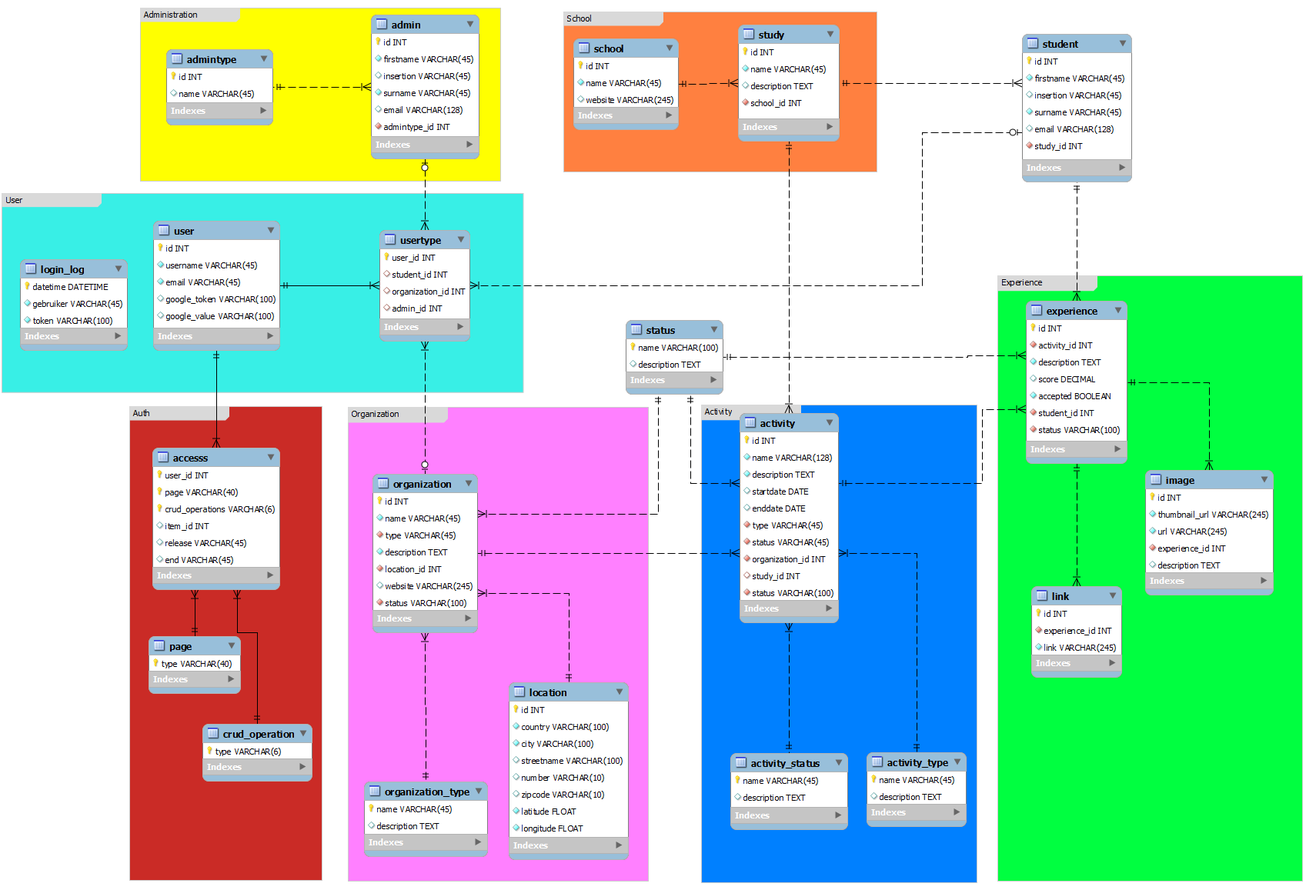
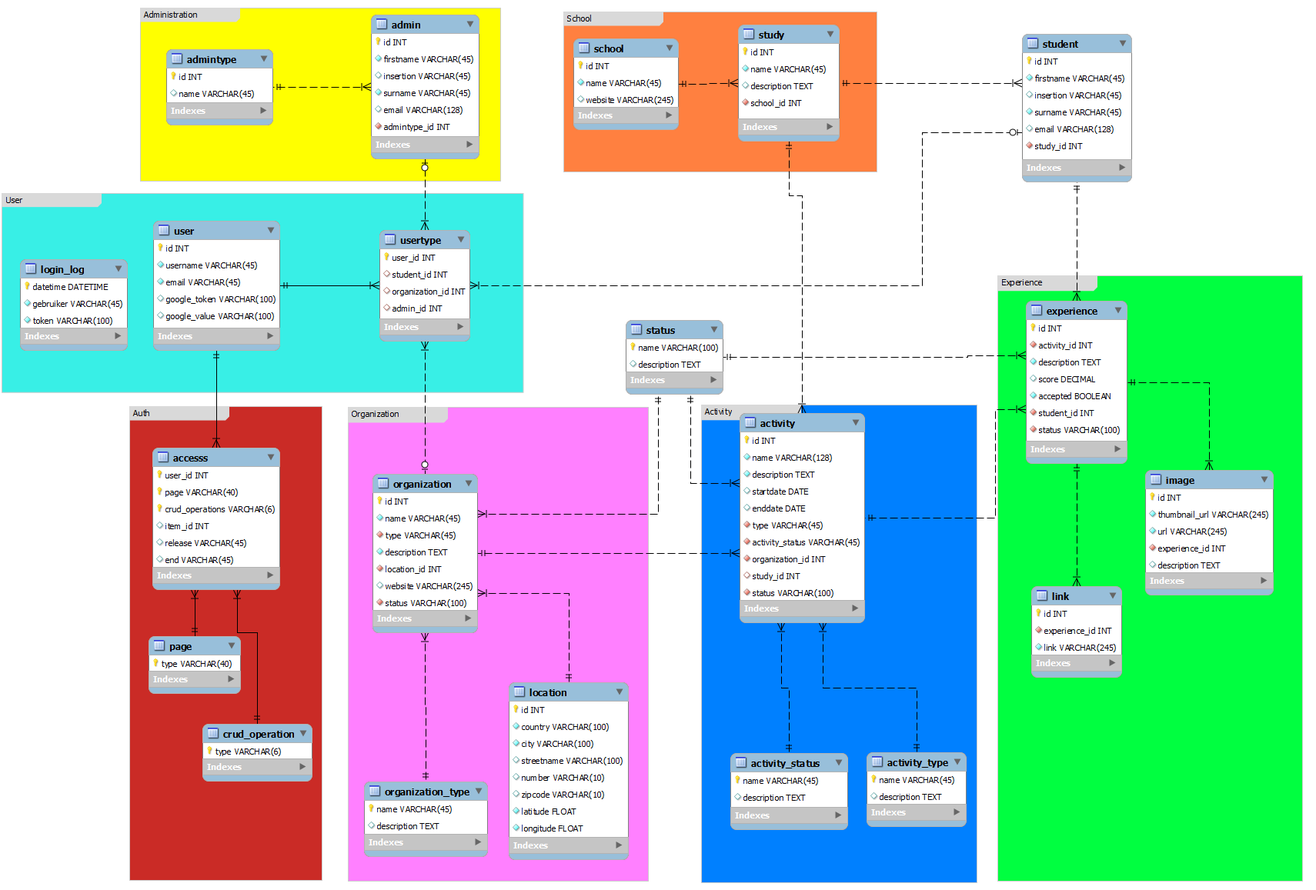
DB update

Changed region(s): [[0.5889, 0.4667, 0.6819, 0.7156]]

diff --git a/Larakaart/app/controllers/DatabaseController.php b/Larakaart/app/controllers/DatabaseController.php
@@ -4,6 +4,23 @@ class DatabaseController extends BaseController {
 
 	public function vullen()
 	{	
+		# Het toevoegen van een status
+		$needsapproval = new Status;
+		$needsapproval->name = "Needsapproval";
+		$needsapproval->save();	
+		
+		$removed = new Status;
+		$removed->name = "Removed";
+		$removed->save();	
+		
+		$approved = new Status;
+		$approved->name = "Approved";
+		$approved->save();	
+		
+		$declined = new Status;
+		$declined->name = "Declined";
+		$declined->save();	
+/*-----------------------------------------------------------------*/		
 		# Het toevoegen van organization types
 		$school = new Organization_type;
 		$school->name = "School";
@@ -110,12 +127,16 @@ class DatabaseController extends BaseController {
 		$kraft->name = "Kraft Foods";
 		$kraft->type = $company->name;
 		$kraft->location_id = $herentals->id;
+		$kraft->status=  $approved->name;
+		$kraft->description = "Lorem ipsum dolor sit amet, consectetuer adipiscing elit. Aenean commodo ligula eget dolor. Aenean massa. Cum sociis natoque penatibus et magnis dis parturient montes, nascetur ridiculus mus. Donec quam felis, ultricies nec, pellentesque eu, pretium quis, sem. Nulla consequat massa quis enim. Donec pede justo, fringilla vel, aliquet nec, vulputate eget, arcu. In enim justo, rhoncus ut, imperdiet a, venenatis vitae, justo. Nullam dictum felis eu pede mollis pretium. Integer tincidunt. Cras dapibus. Vivamus elementum semper nisi. Aenean vulputate eleifend tellus. Aenean leo ligula, porttitor eu, consequat vitae, eleifend ac, enim. Aliquam lorem ante, dapibus in, viverra quis, feugiat a, tellus. Phasellus viverra nulla ut metus varius laoreet. Quisque rutrum. Aenean imperdiet. Etiam ultricies nisi vel augue. Curabitur ullamcorper ultricies nisi. Nam eget dui.";
 		$kraft->save();
 		
 		$weltec = new Organization;
 		$weltec->name = "Weltec Centre for Smart Product";
 		$weltec->type = $company->name;
 		$weltec->location_id = $wellington->id;
+		$weltec->status=  $approved->name;
+		$weltec->description = "Lorem ipsum dolor sit amet, consectetuer adipiscing elit. Aenean commodo ligula eget dolor. Aenean massa. Cum sociis natoque penatibus et magnis dis parturient montes, nascetur ridiculus mus. Donec quam felis, ultricies nec, pellentesque eu, pretium quis, sem. Nulla consequat massa quis enim. Donec pede justo, fringilla vel, aliquet nec, vulputate eget, arcu. In enim justo, rhoncus ut, imperdiet a, venenatis vitae, justo. Nullam dictum felis eu pede mollis pretium. Integer tincidunt. Cras dapibus. Vivamus elementum semper nisi. Aenean vulputate eleifend tellus. Aenean leo ligula, porttitor eu, consequat vitae, eleifend ac, enim. Aliquam lorem ante, dapibus in, viverra quis, feugiat a, tellus. Phasellus viverra nulla ut metus varius laoreet. Quisque rutrum. Aenean imperdiet. Etiam ultricies nisi vel augue. Curabitur ullamcorper ultricies nisi. Nam eget dui.";
 		$weltec->save();
 		
 		# Het toevoegen van de organisaties: EPS
@@ -123,12 +144,16 @@ class DatabaseController extends BaseController {
 		$copenhagenUni->name = "Copenhagen University of Engineering";
 		$copenhagenUni->type = $school->name;
 		$copenhagenUni->location_id = $copenhagen->id;
+		$copenhagenUni->status=  $approved->name;
+		$copenhagenUni->description = "Lorem ipsum dolor sit amet, consectetuer adipiscing elit. Aenean commodo ligula eget dolor. Aenean massa. Cum sociis natoque penatibus et magnis dis parturient montes, nascetur ridiculus mus. Donec quam felis, ultricies nec, pellentesque eu, pretium quis, sem. Nulla consequat massa quis enim. Donec pede justo, fringilla vel, aliquet nec, vulputate eget, arcu. In enim justo, rhoncus ut, imperdiet a, venenatis vitae, justo. Nullam dictum felis eu pede mollis pretium. Integer tincidunt. Cras dapibus. Vivamus elementum semper nisi. Aenean vulputate eleifend tellus. Aenean leo ligula, porttitor eu, consequat vitae, eleifend ac, enim. Aliquam lorem ante, dapibus in, viverra quis, feugiat a, tellus. Phasellus viverra nulla ut metus varius laoreet. Quisque rutrum. Aenean imperdiet. Etiam ultricies nisi vel augue. Curabitur ullamcorper ultricies nisi. Nam eget dui.";
 		$copenhagenUni->save();
 		
 		$novia = new Organization;
 		$novia->name = "Novia University of Applied Sciences";
 		$novia->type = $school->name;
 		$novia->location_id = $vaasa->id;
+		$novia->status=  $approved->name;
+		$novia->description = "Lorem ipsum dolor sit amet, consectetuer adipiscing elit. Aenean commodo ligula eget dolor. Aenean massa. Cum sociis natoque penatibus et magnis dis parturient montes, nascetur ridiculus mus. Donec quam felis, ultricies nec, pellentesque eu, pretium quis, sem. Nulla consequat massa quis enim. Donec pede justo, fringilla vel, aliquet nec, vulputate eget, arcu. In enim justo, rhoncus ut, imperdiet a, venenatis vitae, justo. Nullam dictum felis eu pede mollis pretium. Integer tincidunt. Cras dapibus. Vivamus elementum semper nisi. Aenean vulputate eleifend tellus. Aenean leo ligula, porttitor eu, consequat vitae, eleifend ac, enim. Aliquam lorem ante, dapibus in, viverra quis, feugiat a, tellus. Phasellus viverra nulla ut metus varius laoreet. Quisque rutrum. Aenean imperdiet. Etiam ultricies nisi vel augue. Curabitur ullamcorper ultricies nisi. Nam eget dui.";
 		$novia->save();
 		
 		# Het toevoegen van de organisaties: Minor
@@ -136,12 +161,16 @@ class DatabaseController extends BaseController {
 		$politecnica->name = "Universidad Politecnica de Valencia";
 		$politecnica->type = $school->name;
 		$politecnica->location_id = $valencia->id;
+		$politecnica->status=  $approved->name;
+		$politecnica->description = "Lorem ipsum dolor sit amet, consectetuer adipiscing elit. Aenean commodo ligula eget dolor. Aenean massa. Cum sociis natoque penatibus et magnis dis parturient montes, nascetur ridiculus mus. Donec quam felis, ultricies nec, pellentesque eu, pretium quis, sem. Nulla consequat massa quis enim. Donec pede justo, fringilla vel, aliquet nec, vulputate eget, arcu. In enim justo, rhoncus ut, imperdiet a, venenatis vitae, justo. Nullam dictum felis eu pede mollis pretium. Integer tincidunt. Cras dapibus. Vivamus elementum semper nisi. Aenean vulputate eleifend tellus. Aenean leo ligula, porttitor eu, consequat vitae, eleifend ac, enim. Aliquam lorem ante, dapibus in, viverra quis, feugiat a, tellus. Phasellus viverra nulla ut metus varius laoreet. Quisque rutrum. Aenean imperdiet. Etiam ultricies nisi vel augue. Curabitur ullamcorper ultricies nisi. Nam eget dui.";
 		$politecnica->save();
 		
 		$buskerud = new Organization;
 		$buskerud->name = "Noorwegen, Buskerud University";
 		$buskerud->type = $school->name;
 		$buskerud->location_id = $kongsberg->id;
+		$buskerud->status=  $approved->name;
+		$buskerud->description = "Lorem ipsum dolor sit amet, consectetuer adipiscing elit. Aenean commodo ligula eget dolor. Aenean massa. Cum sociis natoque penatibus et magnis dis parturient montes, nascetur ridiculus mus. Donec quam felis, ultricies nec, pellentesque eu, pretium quis, sem. Nulla consequat massa quis enim. Donec pede justo, fringilla vel, aliquet nec, vulputate eget, arcu. In enim justo, rhoncus ut, imperdiet a, venenatis vitae, justo. Nullam dictum felis eu pede mollis pretium. Integer tincidunt. Cras dapibus. Vivamus elementum semper nisi. Aenean vulputate eleifend tellus. Aenean leo ligula, porttitor eu, consequat vitae, eleifend ac, enim. Aliquam lorem ante, dapibus in, viverra quis, feugiat a, tellus. Phasellus viverra nulla ut metus varius laoreet. Quisque rutrum. Aenean imperdiet. Etiam ultricies nisi vel augue. Curabitur ullamcorper ultricies nisi. Nam eget dui.";
 		$buskerud->save();
 		
 		# Het toevoegen van de organisaties: Stage
@@ -149,12 +178,16 @@ class DatabaseController extends BaseController {
 		$robotics->name = "Australian Centre for Field Robotics";
 		$robotics->type = $company->name;
 		$robotics->location_id = $sydney->id;
+		$robotics->status=  $approved->name;
+		$robotics->description = "Lorem ipsum dolor sit amet, consectetuer adipiscing elit. Aenean commodo ligula eget dolor. Aenean massa. Cum sociis natoque penatibus et magnis dis parturient montes, nascetur ridiculus mus. Donec quam felis, ultricies nec, pellentesque eu, pretium quis, sem. Nulla consequat massa quis enim. Donec pede justo, fringilla vel, aliquet nec, vulputate eget, arcu. In enim justo, rhoncus ut, imperdiet a, venenatis vitae, justo. Nullam dictum felis eu pede mollis pretium. Integer tincidunt. Cras dapibus. Vivamus elementum semper nisi. Aenean vulputate eleifend tellus. Aenean leo ligula, porttitor eu, consequat vitae, eleifend ac, enim. Aliquam lorem ante, dapibus in, viverra quis, feugiat a, tellus. Phasellus viverra nulla ut metus varius laoreet. Quisque rutrum. Aenean imperdiet. Etiam ultricies nisi vel augue. Curabitur ullamcorper ultricies nisi. Nam eget dui.";
 		$robotics->save();
 		
 		$suralco = new Organization;
 		$suralco->name = "Suralco LLC";
 		$suralco->type = $company->name;
 		$suralco->location_id = $paramaribo->id;
+		$suralco->status=  $approved->name;
+		$suralco->description = "Lorem ipsum dolor sit amet, consectetuer adipiscing elit. Aenean commodo ligula eget dolor. Aenean massa. Cum sociis natoque penatibus et magnis dis parturient montes, nascetur ridiculus mus. Donec quam felis, ultricies nec, pellentesque eu, pretium quis, sem. Nulla consequat massa quis enim. Donec pede justo, fringilla vel, aliquet nec, vulputate eget, arcu. In enim justo, rhoncus ut, imperdiet a, venenatis vitae, justo. Nullam dictum felis eu pede mollis pretium. Integer tincidunt. Cras dapibus. Vivamus elementum semper nisi. Aenean vulputate eleifend tellus. Aenean leo ligula, porttitor eu, consequat vitae, eleifend ac, enim. Aliquam lorem ante, dapibus in, viverra quis, feugiat a, tellus. Phasellus viverra nulla ut metus varius laoreet. Quisque rutrum. Aenean imperdiet. Etiam ultricies nisi vel augue. Curabitur ullamcorper ultricies nisi. Nam eget dui.";
 		$suralco->save();
 /*-----------------------------------------------------------------*/		
 		# Het toevoegen van opleidingen
@@ -291,22 +324,24 @@ class DatabaseController extends BaseController {
 		$Activity1->name = "Final thesis Kraft Foods";
 		$Activity1->description = "Lorem ipsum dolor sit amet, consectetuer adipiscing elit. Aenean commodo ligula eget dolor. Aenean massa. Cum sociis natoque penatibus et magnis dis parturient montes, nascetur ridiculus mus. Donec quam felis, ultricies nec, pellentesque eu, pretium quis, sem. Nulla consequat massa quis enim. Donec pede justo, fringilla vel, aliquet nec, vulputate eget, arcu. In enim justo, rhoncus ut, imperdiet a, venenatis vitae, justo. Nullam dictum felis eu pede mollis pretium. Integer tincidunt. Cras dapibus. Vivamus elementum semper nisi. Aenean vulputate eleifend tellus. Aenean leo ligula, porttitor eu, consequat vitae, eleifend ac, enim. Aliquam lorem ante, dapibus in, viverra quis, feugiat a, tellus. Phasellus viverra nulla ut metus varius laoreet. Quisque rutrum. Aenean imperdiet. Etiam ultricies nisi vel augue. Curabitur ullamcorper ultricies nisi. Nam eget dui.";
 		$Activity1->type = $finalThesis->name;
-		$Activity1->status = $closed->name;
+		$Activity1->activity_status = $closed->name;
 		$Activity1->organization_id = $kraft->id;
 		$Activity1->startdate = '2012-01-01';
 		$Activity1->enddate = '2013-01-01';
 		$Activity1->study_id = $ie->id;
+		$Activity1->status=  $approved->name;
 		$Activity1->save();
 		
 		$Activity2 = new Activity;
 		$Activity2->name = "Final thesis Weltec Centre for Smart Product";
 		$Activity2->description = "Lorem ipsum dolor sit amet, consectetuer adipiscing elit. Aenean commodo ligula eget dolor. Aenean massa. Cum sociis natoque penatibus et magnis dis parturient montes, nascetur ridiculus mus. Donec quam felis, ultricies nec, pellentesque eu, pretium quis, sem. Nulla consequat massa quis enim. Donec pede justo, fringilla vel, aliquet nec, vulputate eget, arcu. In enim justo, rhoncus ut, imperdiet a, venenatis vitae, justo. Nullam dictum felis eu pede mollis pretium. Integer tincidunt. Cras dapibus. Vivamus elementum semper nisi. Aenean vulputate eleifend tellus. Aenean leo ligula, porttitor eu, consequat vitae, eleifend ac, enim. Aliquam lorem ante, dapibus in, viverra quis, feugiat a, tellus. Phasellus viverra nulla ut metus varius laoreet. Quisque rutrum. Aenean imperdiet. Etiam ultricies nisi vel augue. Curabitur ullamcorper ultricies nisi. Nam eget dui.";
 		$Activity2->type = $finalThesis->name;
-		$Activity2->status = $closed->name;
+		$Activity2->activity_status = $closed->name;
 		$Activity2->organization_id = $weltec->id;
 		$Activity2->startdate = '2012-01-01';
 		$Activity2->enddate = '2013-01-01';
 		$Activity2->study_id = $me->id;
+		$Activity2->status=  $approved->name;
 		$Activity2->save();
 
 		# Het toevoegen van Activity: EPS
@@ -314,22 +349,24 @@ class DatabaseController extends BaseController {
 		$Activity3->name = "EPS Copenhagen University of Engineering";
 		$Activity3->description = "Lorem ipsum dolor sit amet, consectetuer adipiscing elit. Aenean commodo ligula eget dolor. Aenean massa. Cum sociis natoque penatibus et magnis dis parturient montes, nascetur ridiculus mus. Donec quam felis, ultricies nec, pellentesque eu, pretium quis, sem. Nulla consequat massa quis enim. Donec pede justo, fringilla vel, aliquet nec, vulputate eget, arcu. In enim justo, rhoncus ut, imperdiet a, venenatis vitae, justo. Nullam dictum felis eu pede mollis pretium. Integer tincidunt. Cras dapibus. Vivamus elementum semper nisi. Aenean vulputate eleifend tellus. Aenean leo ligula, porttitor eu, consequat vitae, eleifend ac, enim. Aliquam lorem ante, dapibus in, viverra quis, feugiat a, tellus. Phasellus viverra nulla ut metus varius laoreet. Quisque rutrum. Aenean imperdiet. Etiam ultricies nisi vel augue. Curabitur ullamcorper ultricies nisi. Nam eget dui.";
 		$Activity3->type = $eps->name;
-		$Activity3->status = $closed->name;
+		$Activity3->activity_status = $closed->name;
 		$Activity3->organization_id = $copenhagenUni->id;
 		$Activity3->startdate = '2012-01-01';
 		$Activity3->enddate = '2013-01-01';
 		$Activity3->study_id = $ce->id;
+		$Activity3->status=  $approved->name;
 		$Activity3->save();
 		
 		$Activity4 = new Activity;
 		$Activity4->name = "EPS Novia University of Applied Sciences";
 		$Activity4->description = "Lorem ipsum dolor sit amet, consectetuer adipiscing elit. Aenean commodo ligula eget dolor. Aenean massa. Cum sociis natoque penatibus et magnis dis parturient montes, nascetur ridiculus mus. Donec quam felis, ultricies nec, pellentesque eu, pretium quis, sem. Nulla consequat massa quis enim. Donec pede justo, fringilla vel, aliquet nec, vulputate eget, arcu. In enim justo, rhoncus ut, imperdiet a, venenatis vitae, justo. Nullam dictum felis eu pede mollis pretium. Integer tincidunt. Cras dapibus. Vivamus elementum semper nisi. Aenean vulputate eleifend tellus. Aenean leo ligula, porttitor eu, consequat vitae, eleifend ac, enim. Aliquam lorem ante, dapibus in, viverra quis, feugiat a, tellus. Phasellus viverra nulla ut metus varius laoreet. Quisque rutrum. Aenean imperdiet. Etiam ultricies nisi vel augue. Curabitur ullamcorper ultricies nisi. Nam eget dui.";
 		$Activity4->type = $eps->name;
-		$Activity4->status = $closed->name;
+		$Activity4->activity_status = $closed->name;
 		$Activity4->organization_id = $novia->id;
 		$Activity4->startdate = '2012-01-01';
 		$Activity4->enddate = '2013-01-01';
 		$Activity4->study_id = $cs->id;
+		$Activity4->status=  $approved->name;
 		$Activity4->save();
 		
 		# Het toevoegen van Activity: Minor
@@ -337,33 +374,36 @@ class DatabaseController extends BaseController {
 		$Activity5->name = "Minor Universidad Politecnica de Valencia";
 		$Activity5->description = "Lorem ipsum dolor sit amet, consectetuer adipiscing elit. Aenean commodo ligula eget dolor. Aenean massa. Cum sociis natoque penatibus et magnis dis parturient montes, nascetur ridiculus mus. Donec quam felis, ultricies nec, pellentesque eu, pretium quis, sem. Nulla consequat massa quis enim. Donec pede justo, fringilla vel, aliquet nec, vulputate eget, arcu. In enim justo, rhoncus ut, imperdiet a, venenatis vitae, justo. Nullam dictum felis eu pede mollis pretium. Integer tincidunt. Cras dapibus. Vivamus elementum semper nisi. Aenean vulputate eleifend tellus. Aenean leo ligula, porttitor eu, consequat vitae, eleifend ac, enim. Aliquam lorem ante, dapibus in, viverra quis, feugiat a, tellus. Phasellus viverra nulla ut metus varius laoreet. Quisque rutrum. Aenean imperdiet. Etiam ultricies nisi vel augue. Curabitur ullamcorper ultricies nisi. Nam eget dui.";
 		$Activity5->type = $minor->name;
-		$Activity5->status = $closed->name;
+		$Activity5->activity_status = $closed->name;
 		$Activity5->organization_id = $politecnica->id;
 		$Activity5->startdate = '2012-01-01';
 		$Activity5->enddate = '2013-01-01';
 		$Activity5->study_id = $cmd->id;
+		$Activity5->status=  $approved->name;
 		$Activity5->save();
 		
 		$Activity6 = new Activity;
 		$Activity6->name = "Minor Noorwegen, Buskerud University";
 		$Activity6->description = "Lorem ipsum dolor sit amet, consectetuer adipiscing elit. Aenean commodo ligula eget dolor. Aenean massa. Cum sociis natoque penatibus et magnis dis parturient montes, nascetur ridiculus mus. Donec quam felis, ultricies nec, pellentesque eu, pretium quis, sem. Nulla consequat massa quis enim. Donec pede justo, fringilla vel, aliquet nec, vulputate eget, arcu. In enim justo, rhoncus ut, imperdiet a, venenatis vitae, justo. Nullam dictum felis eu pede mollis pretium. Integer tincidunt. Cras dapibus. Vivamus elementum semper nisi. Aenean vulputate eleifend tellus. Aenean leo ligula, porttitor eu, consequat vitae, eleifend ac, enim. Aliquam lorem ante, dapibus in, viverra quis, feugiat a, tellus. Phasellus viverra nulla ut metus varius laoreet. Quisque rutrum. Aenean imperdiet. Etiam ultricies nisi vel augue. Curabitur ullamcorper ultricies nisi. Nam eget dui.";
 		$Activity6->type = $minor->name;
-		$Activity6->status = $closed->name;
+		$Activity6->activity_status = $closed->name;
 		$Activity6->organization_id = $buskerud->id;
 		$Activity6->startdate = '2012-01-01';
 		$Activity6->enddate = '2013-01-01';
 		$Activity6->study_id = $cmd->id;
+		$Activity6->status=  $approved->name;
 		$Activity6->save();
 		
 		$Activity7 = new Activity;
 		$Activity7->name = "Minor Copenhagen University of Engineering";
 		$Activity7->description = "Lorem ipsum dolor sit amet, consectetuer adipiscing elit. Aenean commodo ligula eget dolor. Aenean massa. Cum sociis natoque penatibus et magnis dis parturient montes, nascetur ridiculus mus. Donec quam felis, ultricies nec, pellentesque eu, pretium quis, sem. Nulla consequat massa quis enim. Donec pede justo, fringilla vel, aliquet nec, vulputate eget, arcu. In enim justo, rhoncus ut, imperdiet a, venenatis vitae, justo. Nullam dictum felis eu pede mollis pretium. Integer tincidunt. Cras dapibus. Vivamus elementum semper nisi. Aenean vulputate eleifend tellus. Aenean leo ligula, porttitor eu, consequat vitae, eleifend ac, enim. Aliquam lorem ante, dapibus in, viverra quis, feugiat a, tellus. Phasellus viverra nulla ut metus varius laoreet. Quisque rutrum. Aenean imperdiet. Etiam ultricies nisi vel augue. Curabitur ullamcorper ultricies nisi. Nam eget dui.";
 		$Activity7->type = $minor->name;
-		$Activity7->status = $closed->name;
+		$Activity7->activity_status = $closed->name;
 		$Activity7->organization_id = $copenhagenUni->id;
 		$Activity7->startdate = '2012-01-01';
 		$Activity7->enddate = '2013-01-01';
 		$Activity7->study_id = $cmd->id;
+		$Activity7->status=  $approved->name;
 		$Activity7->save();
 		
 		# Het toevoegen van Activity: Stage
@@ -371,22 +411,24 @@ class DatabaseController extends BaseController {
 		$Activity8->name = "Internship Australian Centre for Field Robotics";
 		$Activity8->description = "Lorem ipsum dolor sit amet, consectetuer adipiscing elit. Aenean commodo ligula eget dolor. Aenean massa. Cum sociis natoque penatibus et magnis dis parturient montes, nascetur ridiculus mus. Donec quam felis, ultricies nec, pellentesque eu, pretium quis, sem. Nulla consequat massa quis enim. Donec pede justo, fringilla vel, aliquet nec, vulputate eget, arcu. In enim justo, rhoncus ut, imperdiet a, venenatis vitae, justo. Nullam dictum felis eu pede mollis pretium. Integer tincidunt. Cras dapibus. Vivamus elementum semper nisi. Aenean vulputate eleifend tellus. Aenean leo ligula, porttitor eu, consequat vitae, eleifend ac, enim. Aliquam lorem ante, dapibus in, viverra quis, feugiat a, tellus. Phasellus viverra nulla ut metus varius laoreet. Quisque rutrum. Aenean imperdiet. Etiam ultricies nisi vel augue. Curabitur ullamcorper ultricies nisi. Nam eget dui.";
 		$Activity8->type = $internship->name;
-		$Activity8->status = $closed->name;
+		$Activity8->activity_status = $closed->name;
 		$Activity8->organization_id = $robotics->id;
 		$Activity8->startdate = '2012-01-01';
 		$Activity8->enddate = '2013-01-01';
 		$Activity8->study_id = $me->id;
+		$Activity8->status=  $approved->name;
 		$Activity8->save();
 		
 		$Activity9 = new Activity;
 		$Activity9->name = "Internship Suralco LLC";
 		$Activity9->description = "Lorem ipsum dolor sit amet, consectetuer adipiscing elit. Aenean commodo ligula eget dolor. Aenean massa. Cum sociis natoque penatibus et magnis dis parturient montes, nascetur ridiculus mus. Donec quam felis, ultricies nec, pellentesque eu, pretium quis, sem. Nulla consequat massa quis enim. Donec pede justo, fringilla vel, aliquet nec, vulputate eget, arcu. In enim justo, rhoncus ut, imperdiet a, venenatis vitae, justo. Nullam dictum felis eu pede mollis pretium. Integer tincidunt. Cras dapibus. Vivamus elementum semper nisi. Aenean vulputate eleifend tellus. Aenean leo ligula, porttitor eu, consequat vitae, eleifend ac, enim. Aliquam lorem ante, dapibus in, viverra quis, feugiat a, tellus. Phasellus viverra nulla ut metus varius laoreet. Quisque rutrum. Aenean imperdiet. Etiam ultricies nisi vel augue. Curabitur ullamcorper ultricies nisi. Nam eget dui.";
 		$Activity9->type = $internship->name;
-		$Activity9->status = $closed->name;
+		$Activity9->activity_status = $closed->name;
 		$Activity9->organization_id = $suralco->id;
 		$Activity9->startdate = '2012-01-01';
 		$Activity9->enddate = '2013-01-01';
 		$Activity9->study_id = $ie->id;
+		$Activity9->status=  $approved->name;
 		$Activity9->save();
 /*-----------------------------------------------------------------*/		
 		# Add experiences for final thesis'
@@ -395,6 +437,7 @@ class DatabaseController extends BaseController {
 		$experience1->description="Lorem ipsum dolor sit amet, consectetur adipiscing elit. Fusce hendrerit sed magna ac luctus. Aliquam nisi metus, vulputate ut ultricies quis, vestibulum interdum sem. Etiam dui ante, tempor quis justo in, pharetra adipiscing tellus. Proin ullamcorper cursus vestibulum. Duis porta ligula ac tempus scelerisque. Morbi interdum fringilla enim nec placerat. Cras quis elit fringilla, pulvinar libero eget, dapibus tortor. Aliquam vitae consequat massa. Quisque euismod id nibh tempor iaculis. Praesent tempus lacus lobortis, dignissim velit eget, dapibus mauris. In sit amet sapien ultrices, commodo dui viverra, adipiscing massa. Etiam eget lacinia ligula. Cras hendrerit rhoncus mauris a vehicula. Aenean tempus purus iaculis porta molestie. ";
 		$experience1->accepted=1;
 		$experience1->student_id=$student1->id;
+		$experience1->status=  $approved->name;
 		$experience1->save();
 		
 		$experience2 = new Experience;
@@ -402,6 +445,7 @@ class DatabaseController extends BaseController {
 		$experience2->description="Lorem ipsum dolor sit amet, consectetur adipiscing elit. Fusce hendrerit sed magna ac luctus. Aliquam nisi metus, vulputate ut ultricies quis, vestibulum interdum sem. Etiam dui ante, tempor quis justo in, pharetra adipiscing tellus. Proin ullamcorper cursus vestibulum. Duis porta ligula ac tempus scelerisque. Morbi interdum fringilla enim nec placerat. Cras quis elit fringilla, pulvinar libero eget, dapibus tortor. Aliquam vitae consequat massa. Quisque euismod id nibh tempor iaculis. Praesent tempus lacus lobortis, dignissim velit eget, dapibus mauris. In sit amet sapien ultrices, commodo dui viverra, adipiscing massa. Etiam eget lacinia ligula. Cras hendrerit rhoncus mauris a vehicula. Aenean tempus purus iaculis porta molestie. ";
 		$experience2->accepted=1;
 		$experience2->student_id=$student2->id;
+		$experience2->status=  $approved->name;
 		$experience2->save();
 		
 		$experience3 = new Experience;
@@ -409,6 +453,7 @@ class DatabaseController extends BaseController {
 		$experience3->description="Lorem ipsum dolor sit amet, consectetur adipiscing elit. Fusce hendrerit sed magna ac luctus. Aliquam nisi metus, vulputate ut ultricies quis, vestibulum interdum sem. Etiam dui ante, tempor quis justo in, pharetra adipiscing tellus. Proin ullamcorper cursus vestibulum. Duis porta ligula ac tempus scelerisque. Morbi interdum fringilla enim nec placerat. Cras quis elit fringilla, pulvinar libero eget, dapibus tortor. Aliquam vitae consequat massa. Quisque euismod id nibh tempor iaculis. Praesent tempus lacus lobortis, dignissim velit eget, dapibus mauris. In sit amet sapien ultrices, commodo dui viverra, adipiscing massa. Etiam eget lacinia ligula. Cras hendrerit rhoncus mauris a vehicula. Aenean tempus purus iaculis porta molestie. ";
 		$experience3->accepted=1;
 		$experience3->student_id=$student3->id;
+		$experience3->status=  $approved->name;
 		$experience3->save();
 		
 		# Add experiences for EPS
@@ -417,6 +462,7 @@ class DatabaseController extends BaseController {
 		$experience4->description="Lorem ipsum dolor sit amet, consectetur adipiscing elit. Fusce hendrerit sed magna ac luctus. Aliquam nisi metus, vulputate ut ultricies quis, vestibulum interdum sem. Etiam dui ante, tempor quis justo in, pharetra adipiscing tellus. Proin ullamcorper cursus vestibulum. Duis porta ligula ac tempus scelerisque. Morbi interdum fringilla enim nec placerat. Cras quis elit fringilla, pulvinar libero eget, dapibus tortor. Aliquam vitae consequat massa. Quisque euismod id nibh tempor iaculis. Praesent tempus lacus lobortis, dignissim velit eget, dapibus mauris. In sit amet sapien ultrices, commodo dui viverra, adipiscing massa. Etiam eget lacinia ligula. Cras hendrerit rhoncus mauris a vehicula. Aenean tempus purus iaculis porta molestie. ";
 		$experience4->accepted=1;
 		$experience4->student_id=$student4->id;
+		$experience4->status=  $approved->name;
 		$experience4->save();
 		
 		$experience5 = new Experience;
@@ -424,6 +470,7 @@ class DatabaseController extends BaseController {
 		$experience5->description="Lorem ipsum dolor sit amet, consectetur adipiscing elit. Fusce hendrerit sed magna ac luctus. Aliquam nisi metus, vulputate ut ultricies quis, vestibulum interdum sem. Etiam dui ante, tempor quis justo in, pharetra adipiscing tellus. Proin ullamcorper cursus vestibulum. Duis porta ligula ac tempus scelerisque. Morbi interdum fringilla enim nec placerat. Cras quis elit fringilla, pulvinar libero eget, dapibus tortor. Aliquam vitae consequat massa. Quisque euismod id nibh tempor iaculis. Praesent tempus lacus lobortis, dignissim velit eget, dapibus mauris. In sit amet sapien ultrices, commodo dui viverra, adipiscing massa. Etiam eget lacinia ligula. Cras hendrerit rhoncus mauris a vehicula. Aenean tempus purus iaculis porta molestie. ";
 		$experience5->accepted=1;
 		$experience5->student_id=$student5->id;
+		$experience5->status=  $approved->name;
 		$experience5->save();
 		
 		$experience6 = new Experience;
@@ -431,6 +478,7 @@ class DatabaseController extends BaseController {
 		$experience6->description="Lorem ipsum dolor sit amet, consectetur adipiscing elit. Fusce hendrerit sed magna ac luctus. Aliquam nisi metus, vulputate ut ultricies quis, vestibulum interdum sem. Etiam dui ante, tempor quis justo in, pharetra adipiscing tellus. Proin ullamcorper cursus vestibulum. Duis porta ligula ac tempus scelerisque. Morbi interdum fringilla enim nec placerat. Cras quis elit fringilla, pulvinar libero eget, dapibus tortor. Aliquam vitae consequat massa. Quisque euismod id nibh tempor iaculis. Praesent tempus lacus lobortis, dignissim velit eget, dapibus mauris. In sit amet sapien ultrices, commodo dui viverra, adipiscing massa. Etiam eget lacinia ligula. Cras hendrerit rhoncus mauris a vehicula. Aenean tempus purus iaculis porta molestie. ";
 		$experience6->accepted=1;
 		$experience6->student_id=$student6->id;
+		$experience6->status=  $approved->name;
 		$experience6->save();
 		
 		$experience7 = new Experience;
@@ -438,6 +486,7 @@ class DatabaseController extends BaseController {
 		$experience7->description="Lorem ipsum dolor sit amet, consectetur adipiscing elit. Fusce hendrerit sed magna ac luctus. Aliquam nisi metus, vulputate ut ultricies quis, vestibulum interdum sem. Etiam dui ante, tempor quis justo in, pharetra adipiscing tellus. Proin ullamcorper cursus vestibulum. Duis porta ligula ac tempus scelerisque. Morbi interdum fringilla enim nec placerat. Cras quis elit fringilla, pulvinar libero eget, dapibus tortor. Aliquam vitae consequat massa. Quisque euismod id nibh tempor iaculis. Praesent tempus lacus lobortis, dignissim velit eget, dapibus mauris. In sit amet sapien ultrices, commodo dui viverra, adipiscing massa. Etiam eget lacinia ligula. Cras hendrerit rhoncus mauris a vehicula. Aenean tempus purus iaculis porta molestie. ";
 		$experience7->accepted=1;
 		$experience7->student_id=$student7->id;
+		$experience7->status=  $approved->name;
 		$experience7->save();
 		
 		# Add experiences for minors
@@ -446,6 +495,7 @@ class DatabaseController extends BaseController {
 		$experience8->description="Lorem ipsum dolor sit amet, consectetur adipiscing elit. Fusce hendrerit sed magna ac luctus. Aliquam nisi metus, vulputate ut ultricies quis, vestibulum interdum sem. Etiam dui ante, tempor quis justo in, pharetra adipiscing tellus. Proin ullamcorper cursus vestibulum. Duis porta ligula ac tempus scelerisque. Morbi interdum fringilla enim nec placerat. Cras quis elit fringilla, pulvinar libero eget, dapibus tortor. Aliquam vitae consequat massa. Quisque euismod id nibh tempor iaculis. Praesent tempus lacus lobortis, dignissim velit eget, dapibus mauris. In sit amet sapien ultrices, commodo dui viverra, adipiscing massa. Etiam eget lacinia ligula. Cras hendrerit rhoncus mauris a vehicula. Aenean tempus purus iaculis porta molestie. ";
 		$experience8->accepted=1;
 		$experience8->student_id=$student8->id;
+		$experience8->status=  $approved->name;
 		$experience8->save();
 		
 		$experience9 = new Experience;
@@ -453,6 +503,7 @@ class DatabaseController extends BaseController {
 		$experience9->description="Lorem ipsum dolor sit amet, consectetur adipiscing elit. Fusce hendrerit sed magna ac luctus. Aliquam nisi metus, vulputate ut ultricies quis, vestibulum interdum sem. Etiam dui ante, tempor quis justo in, pharetra adipiscing tellus. Proin ullamcorper cursus vestibulum. Duis porta ligula ac tempus scelerisque. Morbi interdum fringilla enim nec placerat. Cras quis elit fringilla, pulvinar libero eget, dapibus tortor. Aliquam vitae consequat massa. Quisque euismod id nibh tempor iaculis. Praesent tempus lacus lobortis, dignissim velit eget, dapibus mauris. In sit amet sapien ultrices, commodo dui viverra, adipiscing massa. Etiam eget lacinia ligula. Cras hendrerit rhoncus mauris a vehicula. Aenean tempus purus iaculis porta molestie. ";
 		$experience9->accepted=1;
 		$experience9->student_id=$student9->id;
+		$experience9->status=  $approved->name;
 		$experience9->save();
 		
 		$experience10 = new Experience;
@@ -460,6 +511,7 @@ class DatabaseController extends BaseController {
 		$experience10->description="Lorem ipsum dolor sit amet, consectetur adipiscing elit. Fusce hendrerit sed magna ac luctus. Aliquam nisi metus, vulputate ut ultricies quis, vestibulum interdum sem. Etiam dui ante, tempor quis justo in, pharetra adipiscing tellus. Proin ullamcorper cursus vestibulum. Duis porta ligula ac tempus scelerisque. Morbi interdum fringilla enim nec placerat. Cras quis elit fringilla, pulvinar libero eget, dapibus tortor. Aliquam vitae consequat massa. Quisque euismod id nibh tempor iaculis. Praesent tempus lacus lobortis, dignissim velit eget, dapibus mauris. In sit amet sapien ultrices, commodo dui viverra, adipiscing massa. Etiam eget lacinia ligula. Cras hendrerit rhoncus mauris a vehicula. Aenean tempus purus iaculis porta molestie. ";
 		$experience10->accepted=1;
 		$experience10->student_id=$student10->id;
+		$experience10->status=  $approved->name;
 		$experience10->save();
 		
 		$experience11 = new Experience;
@@ -467,6 +519,7 @@ class DatabaseController extends BaseController {
 		$experience11->description="Lorem ipsum dolor sit amet, consectetur adipiscing elit. Fusce hendrerit sed magna ac luctus. Aliquam nisi metus, vulputate ut ultricies quis, vestibulum interdum sem. Etiam dui ante, tempor quis justo in, pharetra adipiscing tellus. Proin ullamcorper cursus vestibulum. Duis porta ligula ac tempus scelerisque. Morbi interdum fringilla enim nec placerat. Cras quis elit fringilla, pulvinar libero eget, dapibus tortor. Aliquam vitae consequat massa. Quisque euismod id nibh tempor iaculis. Praesent tempus lacus lobortis, dignissim velit eget, dapibus mauris. In sit amet sapien ultrices, commodo dui viverra, adipiscing massa. Etiam eget lacinia ligula. Cras hendrerit rhoncus mauris a vehicula. Aenean tempus purus iaculis porta molestie. ";
 		$experience11->accepted=1;
 		$experience11->student_id=$student11->id;
+		$experience11->status=  $approved->name;
 		$experience11->save();
 		
 		# Add experiences for internships
@@ -475,6 +528,7 @@ class DatabaseController extends BaseController {
 		$experience12->description="Lorem ipsum dolor sit amet, consectetur adipiscing elit. Fusce hendrerit sed magna ac luctus. Aliquam nisi metus, vulputate ut ultricies quis, vestibulum interdum sem. Etiam dui ante, tempor quis justo in, pharetra adipiscing tellus. Proin ullamcorper cursus vestibulum. Duis porta ligula ac tempus scelerisque. Morbi interdum fringilla enim nec placerat. Cras quis elit fringilla, pulvinar libero eget, dapibus tortor. Aliquam vitae consequat massa. Quisque euismod id nibh tempor iaculis. Praesent tempus lacus lobortis, dignissim velit eget, dapibus mauris. In sit amet sapien ultrices, commodo dui viverra, adipiscing massa. Etiam eget lacinia ligula. Cras hendrerit rhoncus mauris a vehicula. Aenean tempus purus iaculis porta molestie. ";
 		$experience12->accepted=1;
 		$experience12->student_id=$student12->id;
+		$experience12->status=  $approved->name;
 		$experience12->save();
 		
 		$experience13 = new Experience;
@@ -482,6 +536,7 @@ class DatabaseController extends BaseController {
 		$experience13->description="Lorem ipsum dolor sit amet, consectetur adipiscing elit. Fusce hendrerit sed magna ac luctus. Aliquam nisi metus, vulputate ut ultricies quis, vestibulum interdum sem. Etiam dui ante, tempor quis justo in, pharetra adipiscing tellus. Proin ullamcorper cursus vestibulum. Duis porta ligula ac tempus scelerisque. Morbi interdum fringilla enim nec placerat. Cras quis elit fringilla, pulvinar libero eget, dapibus tortor. Aliquam vitae consequat massa. Quisque euismod id nibh tempor iaculis. Praesent tempus lacus lobortis, dignissim velit eget, dapibus mauris. In sit amet sapien ultrices, commodo dui viverra, adipiscing massa. Etiam eget lacinia ligula. Cras hendrerit rhoncus mauris a vehicula. Aenean tempus purus iaculis porta molestie. ";
 		$experience13->accepted=1;
 		$experience13->student_id=$student13->id;
+		$experience13->status=  $approved->name;
 		$experience13->save();
 		
 		$experience14 = new Experience;
@@ -489,6 +544,7 @@ class DatabaseController extends BaseController {
 		$experience14->description="Lorem ipsum dolor sit amet, consectetur adipiscing elit. Fusce hendrerit sed magna ac luctus. Aliquam nisi metus, vulputate ut ultricies quis, vestibulum interdum sem. Etiam dui ante, tempor quis justo in, pharetra adipiscing tellus. Proin ullamcorper cursus vestibulum. Duis porta ligula ac tempus scelerisque. Morbi interdum fringilla enim nec placerat. Cras quis elit fringilla, pulvinar libero eget, dapibus tortor. Aliquam vitae consequat massa. Quisque euismod id nibh tempor iaculis. Praesent tempus lacus lobortis, dignissim velit eget, dapibus mauris. In sit amet sapien ultrices, commodo dui viverra, adipiscing massa. Etiam eget lacinia ligula. Cras hendrerit rhoncus mauris a vehicula. Aenean tempus purus iaculis porta molestie. ";
 		$experience14->accepted=1;
 		$experience14->student_id=$student14->id;
+		$experience14->status=  $approved->name;
 		$experience14->save();
 		
 		$experience15 = new Experience;
@@ -496,6 +552,7 @@ class DatabaseController extends BaseController {
 		$experience15->description="Lorem ipsum dolor sit amet, consectetur adipiscing elit. Fusce hendrerit sed magna ac luctus. Aliquam nisi metus, vulputate ut ultricies quis, vestibulum interdum sem. Etiam dui ante, tempor quis justo in, pharetra adipiscing tellus. Proin ullamcorper cursus vestibulum. Duis porta ligula ac tempus scelerisque. Morbi interdum fringilla enim nec placerat. Cras quis elit fringilla, pulvinar libero eget, dapibus tortor. Aliquam vitae consequat massa. Quisque euismod id nibh tempor iaculis. Praesent tempus lacus lobortis, dignissim velit eget, dapibus mauris. In sit amet sapien ultrices, commodo dui viverra, adipiscing massa. Etiam eget lacinia ligula. Cras hendrerit rhoncus mauris a vehicula. Aenean tempus purus iaculis porta molestie. ";
 		$experience15->accepted=1;
 		$experience15->student_id= $student15->id;
+		$experience15->status=  $approved->name;
 		$experience15->save();
 /*-----------------------------------------------------------------*/			
 		

diff --git a/Larakaart/app/models/Status.php b/Larakaart/app/models/Status.php
@@ -1,0 +1,12 @@
+<?php
+
+class Status extends Eloquent {
+	public $timestamps = false;
+	/**
+	 * The database table used by the model.
+	 *
+	 * @var string
+	 */
+	protected $table = 'status';
+}
+?>
